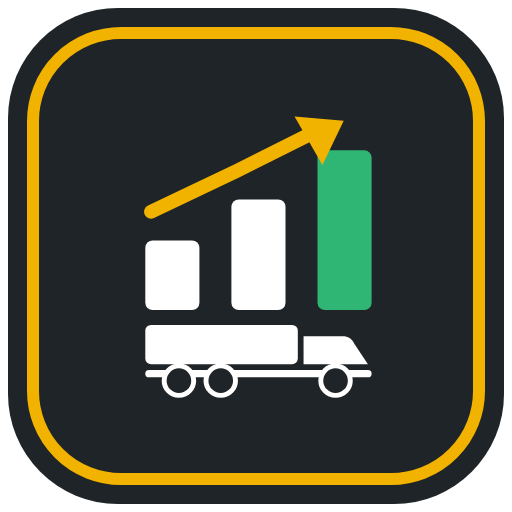
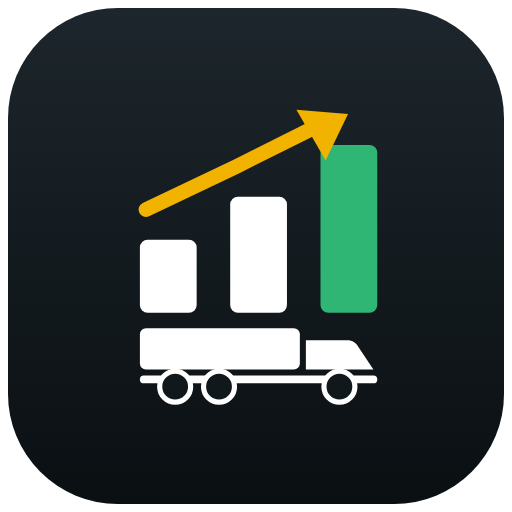
Ícones dos apps iguais ao cartaz
Claude-Session: https://claude.ai/code/session_01K8BjtNN82ELdNwfw4c2inn

Changed region(s): [[0.0312, 0.0312, 0.9688, 0.9688], [0.25, 0.2188, 0.75, 0.8125], [0.375, 0.4688, 0.4062, 0.5938]]

diff --git a/ferramentas/icones/gerar.py b/ferramentas/icones/gerar.py
@@ -10,9 +10,12 @@ from playwright.sync_api import sync_playwright
 AQUI = pathlib.Path(__file__).resolve().parent
 RAIZ = AQUI.parent.parent
 
+# Iguais ao cartaz da plataforma (23/10/2026): quadrado verde com o caminhão
+# (motorista) e quadrado quase preto com o gráfico e o caminhão (gestor), sem
+# borda, com um degradê leve de cima para baixo.
 APPS = {
-    'motorista': {'fundo': '#0B5D3B', 'borda': '#FFFFFF'},
-    'gestor': {'fundo': '#1E2427', 'borda': '#F2B300'},
+    'motorista': {'fundo': '#028A36', 'topo': '#1FB04F', 'base': '#01632A'},
+    'gestor': {'fundo': '#11181C', 'topo': '#1D262C', 'base': '#0A0F12'},
 }
 DENSIDADES = {'mdpi': 1, 'hdpi': 1.5, 'xhdpi': 2, 'xxhdpi': 3, 'xxxhdpi': 4}
 
@@ -25,14 +28,16 @@ def arte(app):
 def svg(app, tipo):
     c = APPS[app]
     g = arte(app)
-    if tipo == 'completo':  # placa de estrada com borda (ícone antigo e web)
-        return f'''<svg xmlns="http://www.w3.org/2000/svg" viewBox="0 0 1024 1024">
-<rect x="16" y="16" width="992" height="992" rx="220" fill="{c['fundo']}"/>
-<rect x="66" y="66" width="892" height="892" rx="176" fill="none" stroke="{c['borda']}" stroke-width="24"/>
-<g transform="translate(512 512) scale(0.82) translate(-506 -508)">{g}</g></svg>'''
+    degrade = (f'<defs><linearGradient id="f" x1="0" y1="0" x2="0" y2="1">'
+               f'<stop offset="0" stop-color="{c['topo']}"/><stop offset="1" stop-color="{c['base']}"/>'
+               f'</linearGradient></defs>')
+    if tipo == 'completo':  # quadrado arredondado, como no cartaz (ícone antigo e web)
+        return f'''<svg xmlns="http://www.w3.org/2000/svg" viewBox="0 0 1024 1024">{degrade}
+<rect x="16" y="16" width="992" height="992" rx="220" fill="url(#f)"/>
+<g transform="translate(512 512) scale(0.86) translate(-506 -508)">{g}</g></svg>'''
     if tipo == 'mascaravel':  # fundo cheio, arte no círculo seguro (web)
-        return f'''<svg xmlns="http://www.w3.org/2000/svg" viewBox="0 0 1024 1024">
-<rect width="1024" height="1024" fill="{c['fundo']}"/>
+        return f'''<svg xmlns="http://www.w3.org/2000/svg" viewBox="0 0 1024 1024">{degrade}
+<rect width="1024" height="1024" fill="url(#f)"/>
 <g transform="translate(512 512) scale(0.70) translate(-506 -508)">{g}</g></svg>'''
     # frente do ícone adaptativo (Android 8+): só a arte, fundo transparente
     return f'''<svg xmlns="http://www.w3.org/2000/svg" viewBox="0 0 1024 1024">
